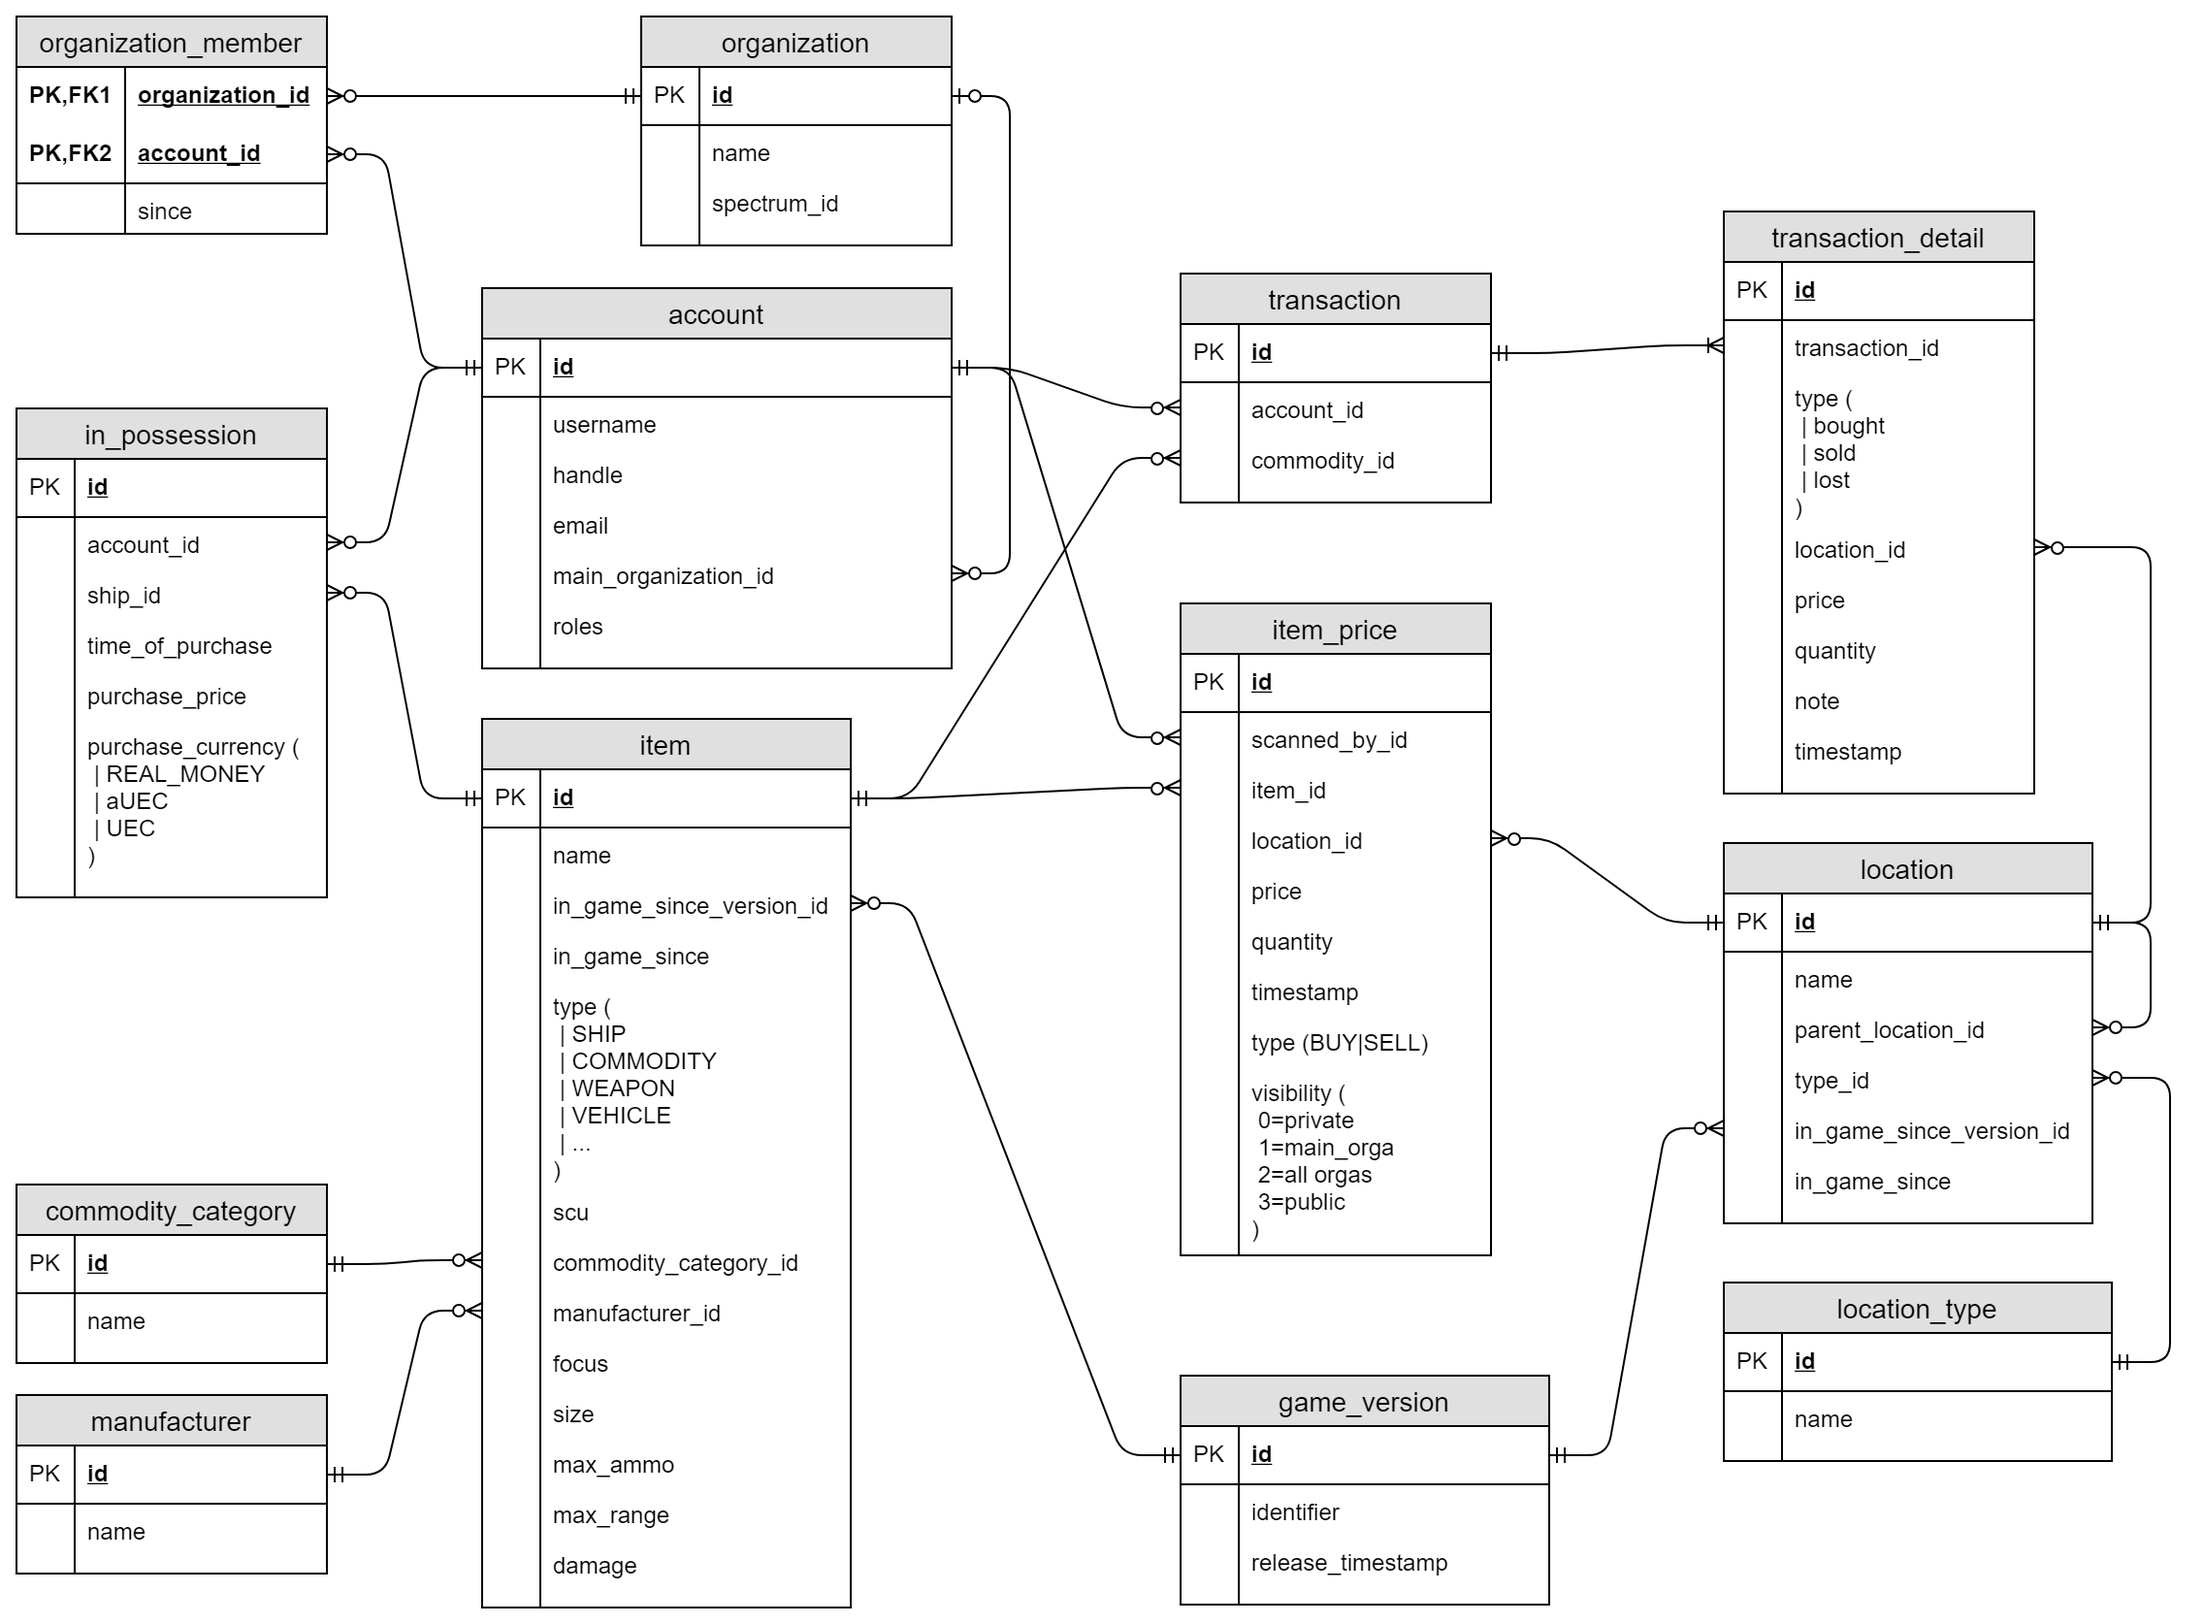
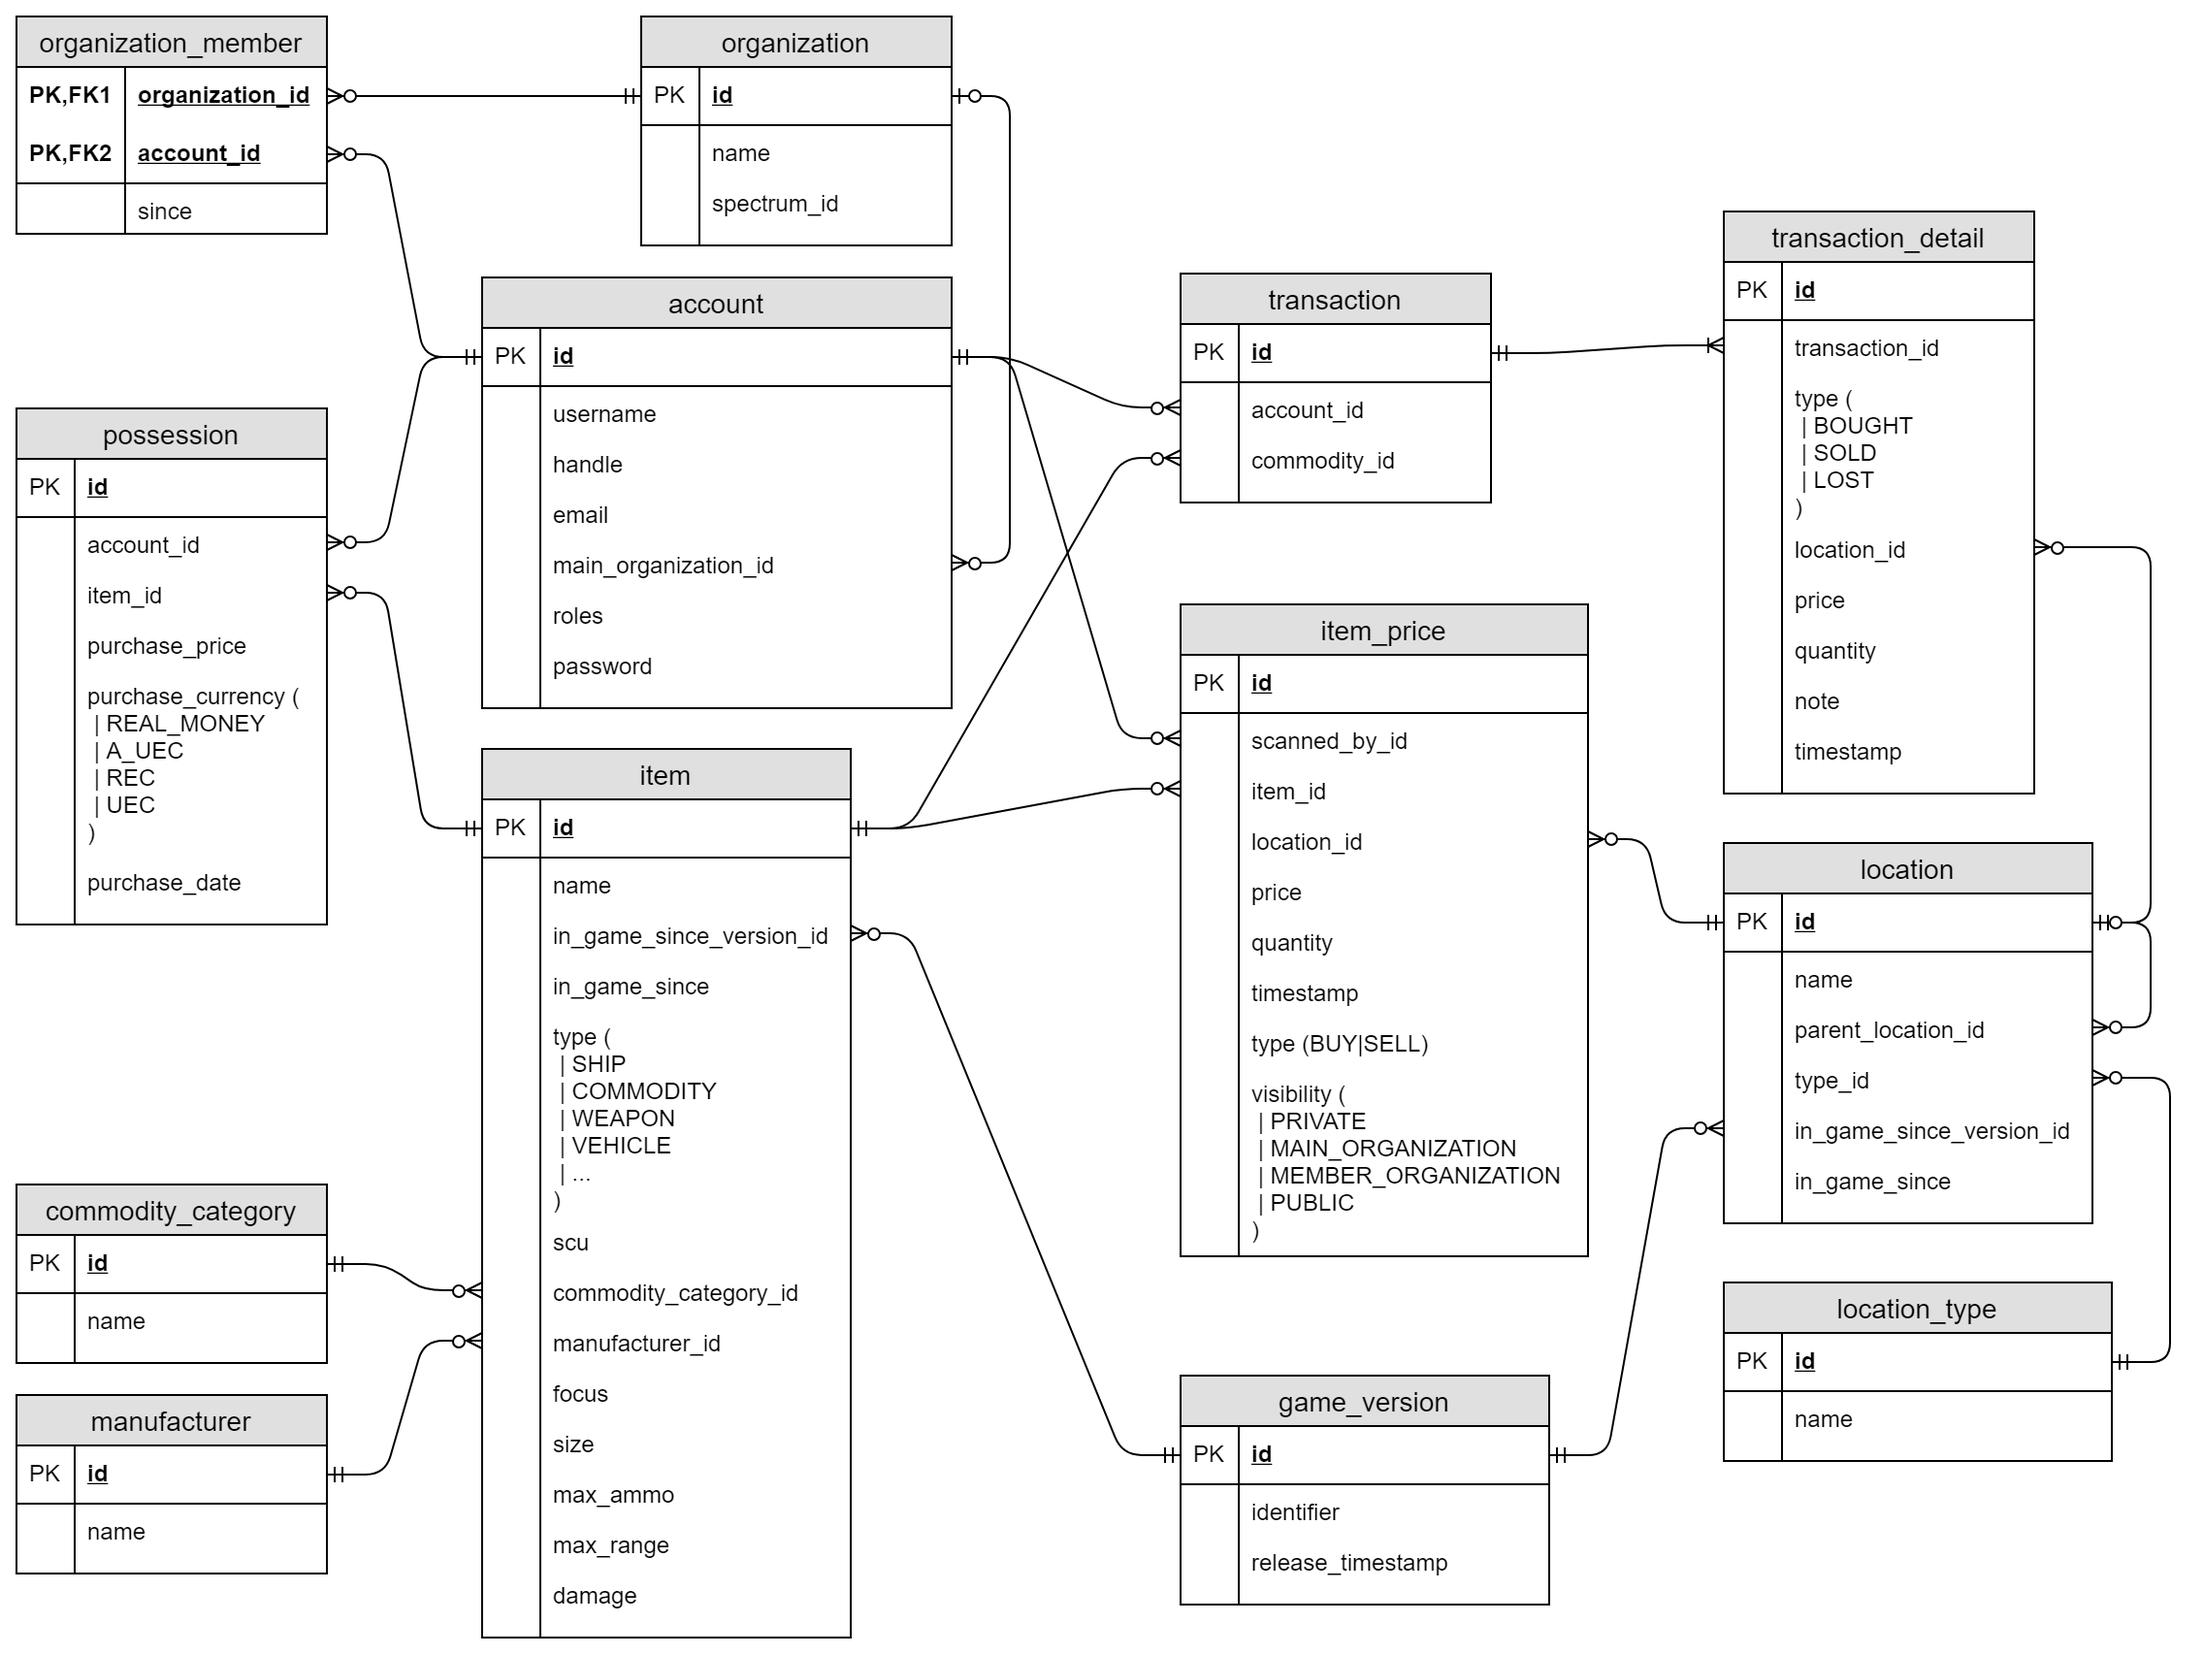
added possession

diff --git a/migrations/1544035943442_possession.ts b/migrations/1544035943442_possession.ts
@@ -1,0 +1,22 @@
+import { ColumnDefinitions, MigrationBuilder, PgLiteral, PgType } from 'node-pg-migrate';
+
+export const shorthands: ColumnDefinitions = {
+	id: { type: PgType.UUID, primaryKey: true, default: new PgLiteral('uuid_generate_v4()') }
+};
+
+export function up(pgm: MigrationBuilder): void {
+	pgm.createType('purchase_currency', ['REAL_MONEY', 'A_UEC', 'REC', 'UEC']);
+	pgm.createTable('possession', {
+		id: { type: 'id' },
+		account_id: { type: PgType.UUID, notNull: true, references: { name: 'account' } },
+		item_id: { type: PgType.UUID, notNull: true, references: { name: 'item' } },
+		purchase_price: { type: PgType.NUMERIC, notNull: true },
+		purchase_currency: { type: 'purchase_currency', notNull: true },
+		purchase_date: { type: PgType.DATE }
+	});
+}
+
+export function down(pgm: MigrationBuilder): void {
+	pgm.dropTable('possession');
+	pgm.dropType('purchase_currency');
+}
